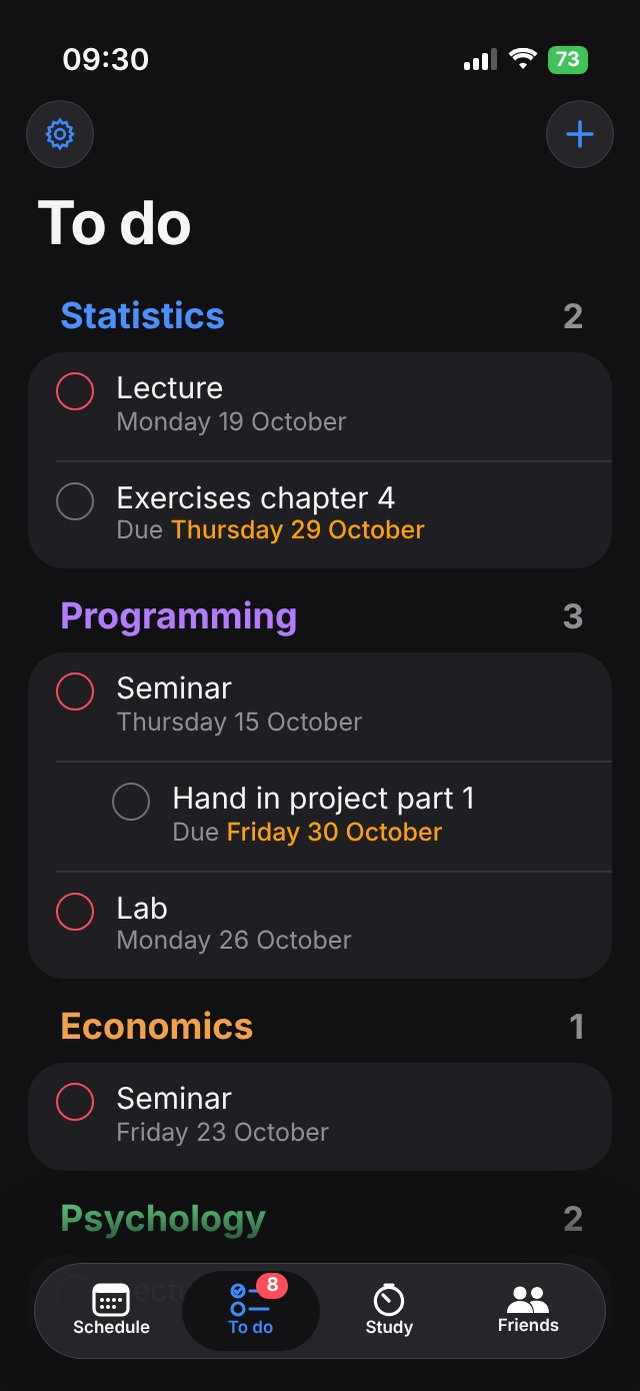
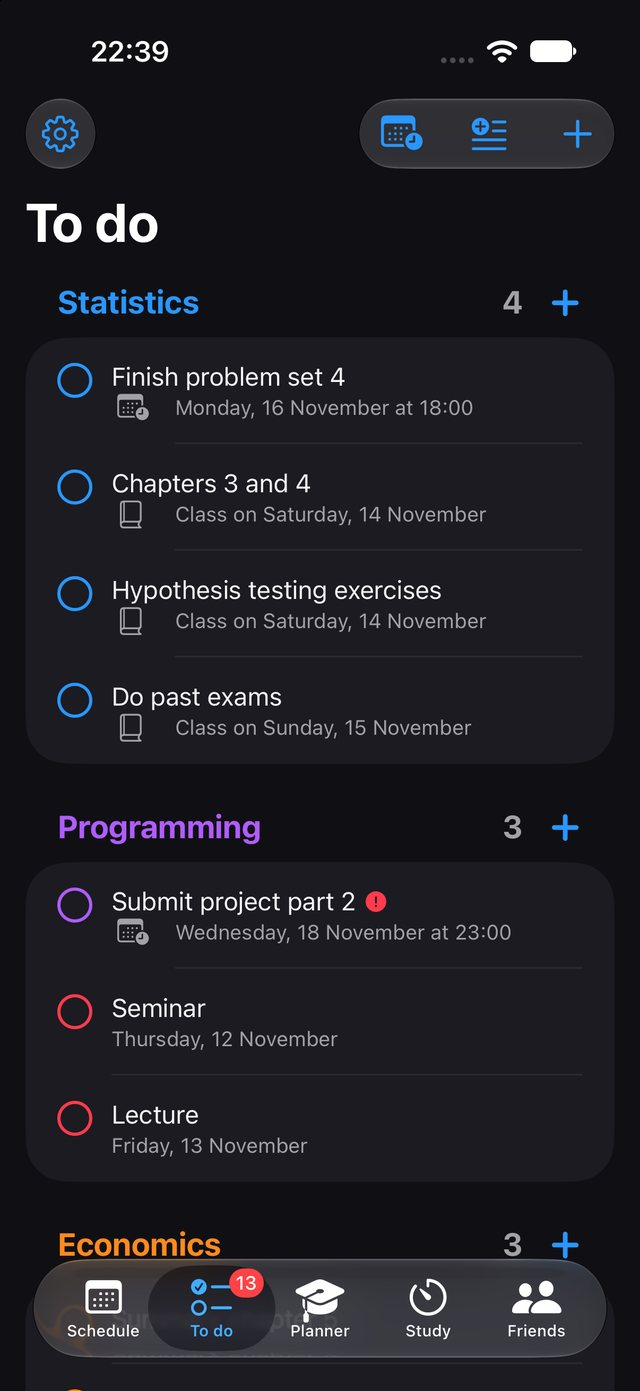
Homepage: screenshots vervangen door de 2.1-set (iPhone en iPad)
Claude-Session: https://claude.ai/code/session_01LexhzXoeSE1ZcXX18C4G3v

diff --git a/index.html b/index.html
@@ -366,7 +366,7 @@ footer .rechts{margin-left:auto}
       <p class="lead">Via iCloud gaan je vakken, notities en studiesessies mee naar je andere toestellen. Je hoeft geen account te maken. En op een andere computer open je je rooster op het web.</p>
       <a class="webknop" href="https://app.skippedapp.app">Skipped op het web openen</a>
     </div>
-    <img class="ipad op" src="img/ipad-rooster.jpg" width="1800" height="1241" alt="Skipped op de iPad met het weekrooster" loading="lazy">
+    <img class="ipad op" src="img/ipad-rooster.jpg" width="1800" height="1350" alt="Skipped op de iPad met het weekrooster en het rooster van een vriend" loading="lazy">
   </div>
 </section>
 

diff --git a/en/index.html b/en/index.html
@@ -366,7 +366,7 @@ footer .rechts{margin-left:auto}
       <p class="lead">Your courses, notes and study sessions sync to your other devices through iCloud. No account needed. And on any other computer, you can open your schedule on the web.</p>
       <a class="webknop" href="https://app.skippedapp.app">Open Skipped on the web</a>
     </div>
-    <img class="ipad op" src="/img/ipad-rooster.jpg" width="1800" height="1241" alt="Skipped on iPad with the weekly schedule" loading="lazy">
+    <img class="ipad op" src="/img/ipad-rooster.jpg" width="1800" height="1350" alt="Skipped on iPad with the weekly schedule and a friend’s schedule" loading="lazy">
   </div>
 </section>
 
